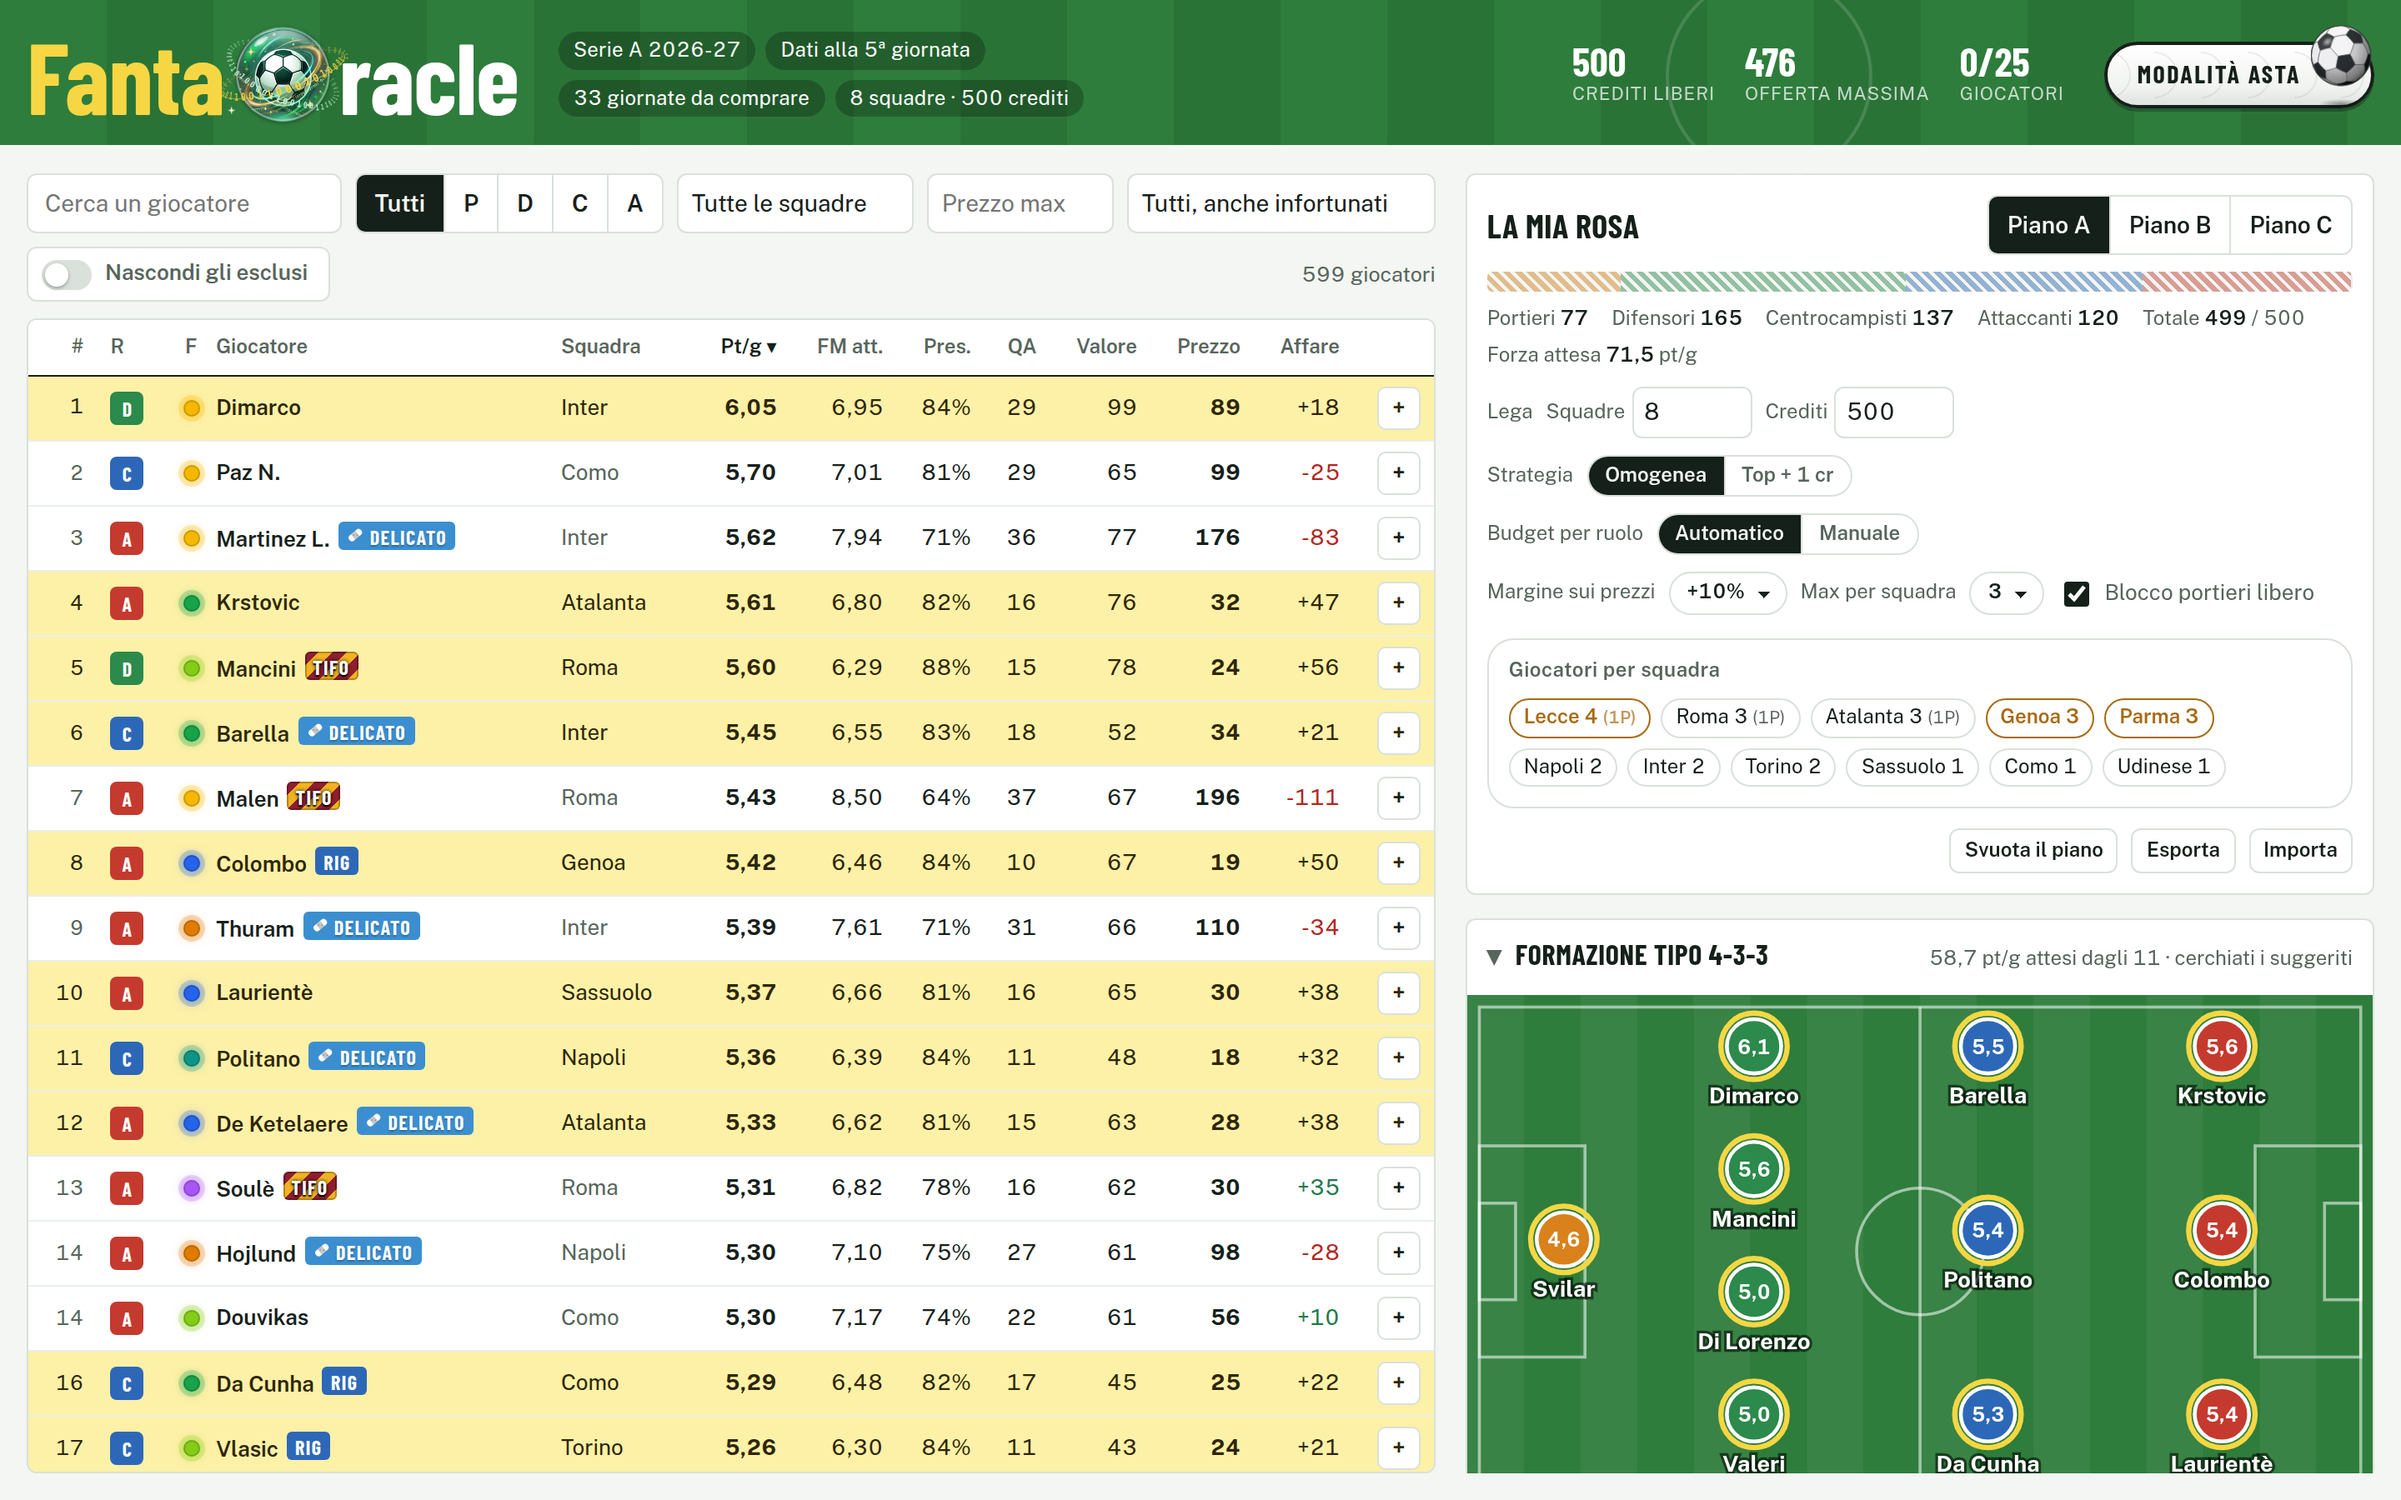
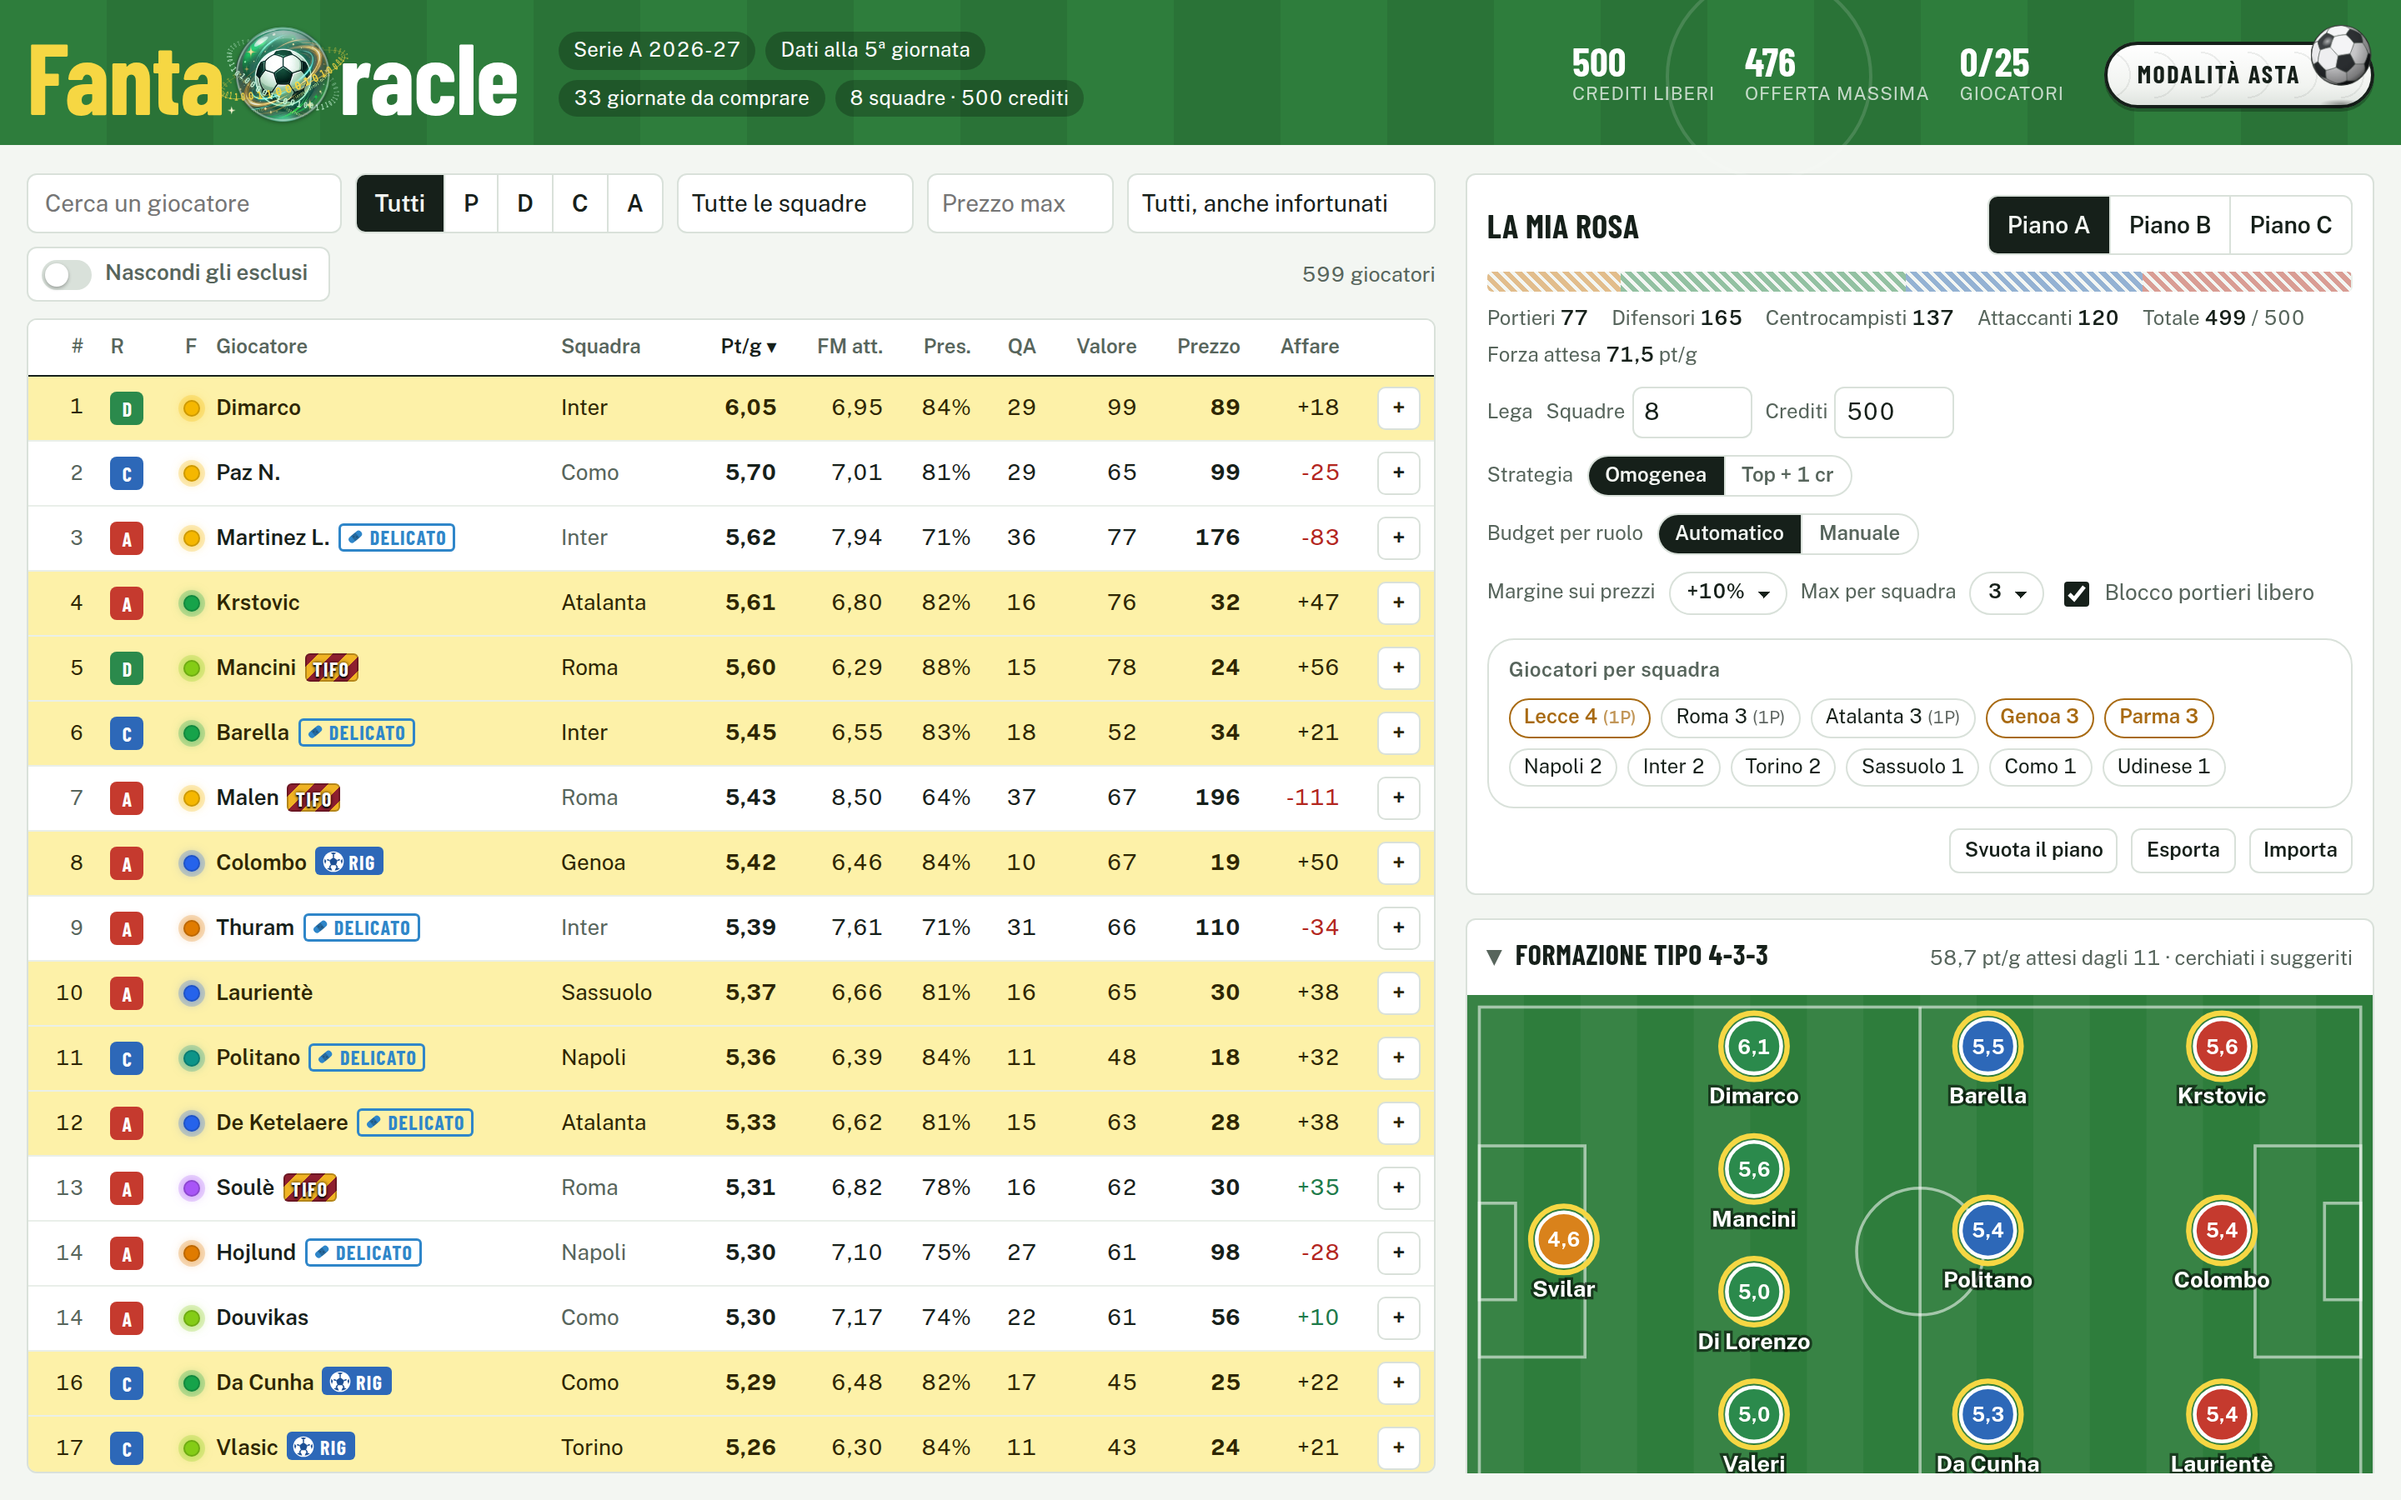
Etichette: DELICATO solo bordato, pallone su RIG, DIFF senza punto
Le etichette restano bollini pieni; DELICATO diventa solo bordato in celeste
(piu' chiaro in tema scuro) col cerotto dello stesso colore, come FRAGILE in
rosso. RIG ha davanti un pallone bianco, alto quanto il testo cosi' il bollino
resta centrato sul nome. DIFF. perde il punto.

Claude-Session: https://claude.ai/code/session_01FBeLdg3Zut88sEP1f7QNub

diff --git a/web/tool.js b/web/tool.js
@@ -622,12 +622,15 @@ function titoloFr(g) {
     `; ~${fmt(f.gg, 0)} giorni e ~${fmt(f.pp, 0)} partite perse a stagione`;
 }
 
-// I segni dentro le etichette della propensione: una croce rossa per i fragili, un cerotto
-// bianco per i delicati. Prendono il colore del testo (currentColor) e la sua altezza.
+// I segni dentro le etichette: una croce rossa per i fragili, un cerotto per i delicati (nel
+// colore del testo, currentColor), un pallone bianco per i rigoristi. Alti quanto il testo.
 const SEGNO = {
   croce: '<svg class="segno" viewBox="0 0 12 12" aria-hidden="true"><path d="M4.4 1h3.2v3.4H11v3.2H7.6V11H4.4V7.6H1V4.4h3.4z"/></svg>',
   cerotto: '<svg class="segno" viewBox="0 0 12 12" aria-hidden="true"><g transform="rotate(-40 6 6)"><rect x="0.6" y="3.6" width="10.8" height="4.8" rx="2.4"/>' +
     '<rect x="4" y="3.6" width="4" height="4.8" fill="rgb(0 0 0 / 0.22)"/><circle cx="5.2" cy="5.2" r=".45" fill="rgb(0 0 0 / 0.35)"/><circle cx="6.8" cy="6.8" r=".45" fill="rgb(0 0 0 / 0.35)"/></g></svg>',
+  pallone: '<svg class="segno pallone" viewBox="0 0 24 24" aria-hidden="true"><circle cx="12" cy="12" r="11" fill="#fff"/>' +
+    '<g fill="#1d4f94"><path d="M12 7.4l4.4 3.2-1.7 5.2H9.3l-1.7-5.2z"/><path d="M9 2.7l3-.5 3 .5-3 2.2zM21.4 8.8l.4 3-.9 2.9-1.2-3.6zM18.9 19.4l-2.6 1.6-3 .5 1.6-3.4zM5.1 19.4l2.6 1.6 3 .5-1.6-3.4zM2.6 8.8l-.4 3 .9 2.9 1.2-3.6z"/></g>' +
+    '<path d="M12 7.4V4.9M16.4 10.6l2.5-.8M14.7 15.8l1.6 2.2M9.3 15.8l-1.6 2.2M7.6 10.6l-2.5-.8" stroke="#1d4f94" stroke-width="1.4"/></svg>',
 };
 function tagSalute(g, senzaDubbio = false) {
   let t = "";
@@ -635,7 +638,7 @@ function tagSalute(g, senzaDubbio = false) {
     const i = g.inf;
     const out = fuori(g);
     // Bollini da tabellone: chi e' fuori ha la chiave (OUT, SQ) e accanto quando rientra
-    const testo = i.t === "diffidato" ? "DIFF." : !out ? "? DUBBIO"
+    const testo = i.t === "diffidato" ? "DIFF" : !out ? "? DUBBIO"
       : i.t === "squalificato" ? `<i>SQ</i>${i.fs ? "STAGIONE" : i.s ? `${i.s} G` : ""}`
       : `<i>OUT</i>${i.fs ? "STAGIONE" : i.g ? `${i.g}ª` : ""}`;
     const cls = out ? "out" : i.t === "diffidato" ? "diff" : "dubbio";
@@ -674,7 +677,7 @@ function contrastoBianco(hex) {
 }
 function tag(g, senzaDubbio = false) {
   let t = "";
-  if ((g.qrig || 0) >= 0.4) t += '<span class="tag rig" title="Rigorista: calcia la maggior parte dei rigori della squadra">RIG</span>';
+  if ((g.qrig || 0) >= 0.4) t += `<span class="tag rig" title="Rigorista: calcia la maggior parte dei rigori della squadra">${SEGNO.pallone}RIG</span>`;
   if ((g.tifo || 1) > 1) {
     const [c1, c2] = COLORI_SQ[g.sq] || ["#8a6a12", "#f2c200"];
     const velo = Math.min(contrastoBianco(c1), contrastoBianco(c2)) < 1.7 ? " velo" : "";

diff --git a/web/tool.css b/web/tool.css
@@ -20,6 +20,7 @@
   --go: #1d7a4a; --warn: #a86a12; --bad: #b3261e;
   --r-p: #d9821b; --r-d: #2b8a4c; --r-c: #2d68b8; --r-a: #c53a2e;  /* colori di ruolo */
   --caldo: #b3261e; --freddo: #2d68b8;   /* grafico del mercato: sopra e sotto il prezzo previsto */
+  --celeste: #2f86c9;                     /* etichetta DELICATO */
   --merc-gen: #1f6bff; --merc: #f59e0b;   /* le medie dei due grafici: blu elettrico i crediti pagati, ambra i prezzi sul previsto */
   --font-display: "Barlow Condensed", "Arial Narrow", "Roboto Condensed", sans-serif;
   --font-body: "Public Sans", "Segoe UI", system-ui, -apple-system, sans-serif;
@@ -31,7 +32,7 @@
     --rule: #28342d; --tint: #1c2621; --mark: #e2c436; --mark-bg: #4a4012; --mark-fg: #fff3b8;
     --brand: #4fc473; --brand-fg: #0b1a10;
     --grass-1: #1d5129; --grass-2: #1a4924; --chalk: #e8efe9;
-    --go: #4cc184; --warn: #e0a33c; --bad: #f07167;
+    --go: #4cc184; --warn: #e0a33c; --bad: #f07167; --celeste: #6cbcf0;
     --r-p: #f0a04a; --r-d: #4fbf73; --r-c: #6b9ee8; --r-a: #ef6a5c;
     --caldo: #e8604f; --freddo: #5b93e6; --merc-gen: #4d8dff; --merc: #fbbf24;
     color-scheme: dark;
@@ -42,7 +43,7 @@
   --rule: #28342d; --tint: #1c2621; --mark: #e2c436; --mark-bg: #4a4012; --mark-fg: #fff3b8;
   --brand: #4fc473; --brand-fg: #0b1a10;
   --grass-1: #1d5129; --grass-2: #1a4924; --chalk: #e8efe9;
-  --go: #4cc184; --warn: #e0a33c; --bad: #f07167;
+  --go: #4cc184; --warn: #e0a33c; --bad: #f07167; --celeste: #6cbcf0;
   --r-p: #f0a04a; --r-d: #4fbf73; --r-c: #6b9ee8; --r-a: #ef6a5c;
   --caldo: #e8604f; --freddo: #5b93e6; --merc-gen: #4d8dff; --merc: #fbbf24;
   color-scheme: dark;
@@ -249,7 +250,9 @@ td.big { font-weight: 700; }
 .tag.out { color: #fff; background: #c5302a; box-shadow: none; cursor: help; }
 .tag.dubbio, .tag.diff { color: #3a2a00; background: #f7c948; box-shadow: none; cursor: help; }
 .tag.fragile { color: var(--bad); cursor: help; }
-.tag.rischio { color: #fff; background: #3b8fd0; box-shadow: none; cursor: help; text-shadow: 0 1px 1px rgb(0 0 0 / 0.25); }
+/* delicato e' l'unico avviso solo bordato (insieme a fragile): celeste, col cerotto dello stesso colore */
+.tag.rischio { color: var(--celeste); cursor: help; }
+.tag .segno.pallone { width: 1em; height: 1em; margin: 0 0.3em 0 -0.05em; transform: scale(1.12); }
 td.act { display: flex; gap: 4px; justify-content: flex-end; }
 .ic { width: 26px; height: 26px; display: inline-grid; place-items: center; border: 1px solid var(--rule); background: var(--sheet); border-radius: 5px; font-weight: 700; line-height: 1; }
 .ic:hover { border-color: var(--ink); }

diff --git a/web/index.html b/web/index.html
@@ -10,7 +10,7 @@
 <link rel="preconnect" href="https://fonts.gstatic.com" crossorigin>
 <link rel="stylesheet" href="https://fonts.googleapis.com/css2?family=Barlow+Condensed:wght@500;600;700&family=Public+Sans:wght@400;500;600;700&display=swap">
 <link rel="icon" type="image/png" href="logo.png">
-<link rel="stylesheet" href="tool.css?v=2ab60def07">
+<link rel="stylesheet" href="tool.css?v=4de0aa7a0a">
 <div class="app">
   <header class="top">
     <div class="marca">
@@ -115,7 +115,7 @@
 
 <div class="overlay" id="overlay" hidden></div>
 
-<script src="tool.js?v=7379051798"></script>
+<script src="tool.js?v=68292af687"></script>
 
 </body>
 </html>

diff --git a/README.md b/README.md
@@ -35,9 +35,9 @@ I 599 giocatori delle 20 squadre di Serie A, ordinati per punti attesi. Filtri p
 | **Prezzo** | Quanto costerà presumibilmente nella nostra asta |
 | **Affare** | Valore meno prezzo: più è alto, più conviene |
 
-Accanto al nome trovi dei bollini, come quelli di un tabellone: **RIG** in blu per i rigoristi, **TIFO** a strisce con i colori della squadra per i giocatori che in lega costeranno un po' di più perché qualcuno ci è affezionato (giallorosso per la Roma, biancoceleste per la Lazio). Nella scheda del giocatore i bollini crescono insieme al nome.
+Accanto al nome trovi dei bollini, come quelli di un tabellone: **⚽ RIG** in blu, con un pallone, per i rigoristi, **TIFO** a strisce con i colori della squadra per i giocatori che in lega costeranno un po' di più perché qualcuno ci è affezionato (giallorosso per la Roma, biancoceleste per la Lazio). Nella scheda del giocatore i bollini crescono insieme al nome.
 
-🚑 Vedi anche chi è **fuori**, in rosso pieno: **OUT | 8ª** se salta le prossime giornate e rientra alla 8ª (con la data, passandoci sopra), **OUT | STAGIONE** se non torna più, **SQ | 2 G** se è squalificato per due giornate. Chi è solo in dubbio per la prossima non ha bollino nel listone: lo trovi nella sua scheda, in giallo. E chi **si fa male spesso**: **✚ FRAGILE**, bordato di rosso con una croce, se negli ultimi tre anni ha perso almeno un quarto di stagione a forza di stop, **DELICATO**, in celeste con un cerotto, se ci va vicino. Un filtro ti lascia solo i disponibili, o solo i disponibili non fragili. Le giornate che un infortunato salta sono già tolte dai suoi punti attesi e dal suo valore; la fragilità invece è un avviso, la decisione è tua.
+🚑 Vedi anche chi è **fuori**, in rosso pieno: **OUT | 8ª** se salta le prossime giornate e rientra alla 8ª (con la data, passandoci sopra), **OUT | STAGIONE** se non torna più, **SQ | 2 G** se è squalificato per due giornate. Chi è solo in dubbio per la prossima non ha bollino nel listone: lo trovi nella sua scheda, in giallo. E chi **si fa male spesso**: **✚ FRAGILE**, bordato di rosso con una croce, se negli ultimi tre anni ha perso almeno un quarto di stagione a forza di stop, **DELICATO**, bordato di celeste con un cerotto, se ci va vicino. Un filtro ti lascia solo i disponibili, o solo i disponibili non fragili. Le giornate che un infortunato salta sono già tolte dai suoi punti attesi e dal suo valore; la fragilità invece è un avviso, la decisione è tua.
 
 ### 2. Apri la scheda di un giocatore
 

diff --git a/specifiche.md b/specifiche.md
@@ -71,10 +71,10 @@ chiusi e si aprono dal riquadro che li riassume (quello con la freccia).
 rosso pieno chi salta almeno una delle prossime giornate, con la chiave scura e
 accanto il rientro (`OUT | 8ª`: rientro alla 8ª, `OUT | STAGIONE` se torna dopo
 l'ultima, `SQ | 2 G` per una squalifica di due giornate); in giallo chi è in
-dubbio per la prossima o ha un acciacco senza data (`? DUBBIO`, `DIFF.`). Poi la
+dubbio per la prossima o ha un acciacco senza data (`? DUBBIO`, `DIFF`). Poi la
 propensione dallo storico: `FRAGILE` bordato di rosso con una croce rossa (circa
-uno su sette) e, più discreto, `DELICATO` in celeste con un cerotto bianco (uno
-su quattro). `RIG` è blu, `TIFO` ha le strisce con i colori sociali della squadra
+uno su sette) e, più discreto, `DELICATO` bordato di celeste con un cerotto (uno
+su quattro). `RIG` è blu con un pallone, `TIFO` ha le strisce con i colori sociali della squadra
 (una tabella per tutte le venti, così vale per qualsiasi squadra messa nel tifo
 in `config/league.yaml`); un velo scuro le copre solo se una striscia è troppo
 chiara per la scritta bianca (contrasto sotto 1,7: bianco, giallo). Le misure
